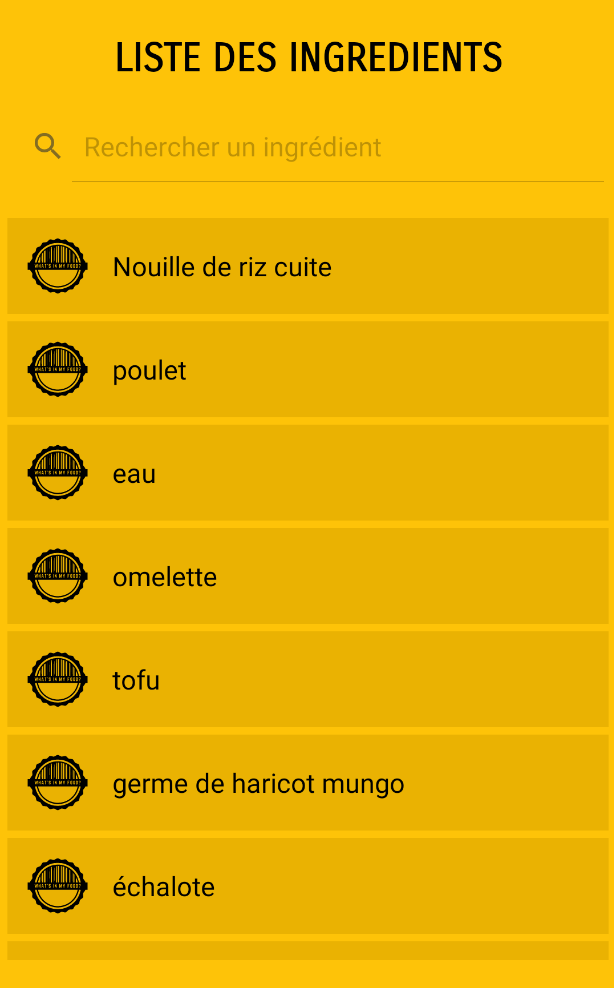
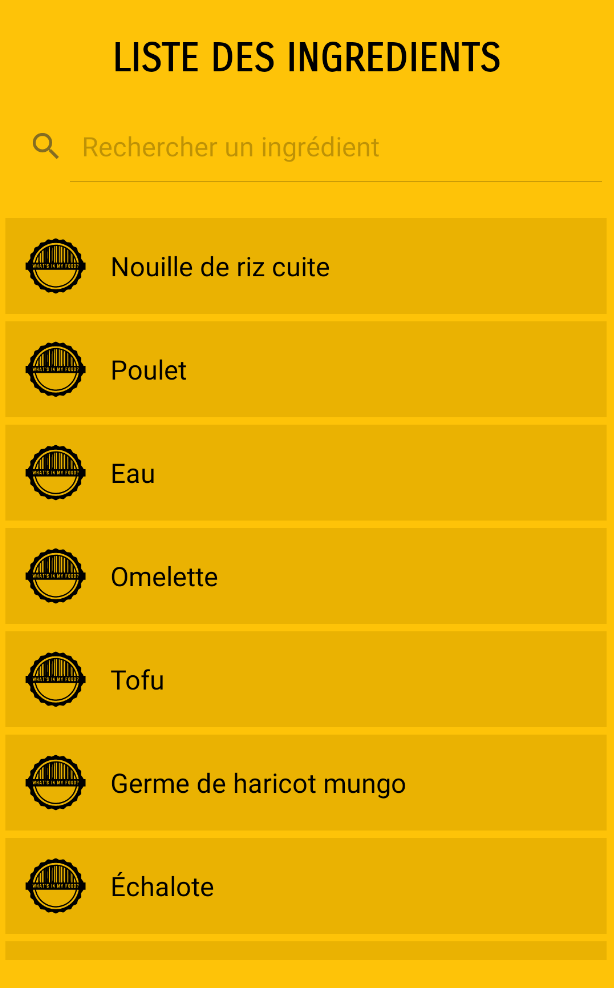
Modification image et d'affichage

diff --git a/app/src/main/java/com/example/app/presentation/view/ListAdapter.java b/app/src/main/java/com/example/app/presentation/view/ListAdapter.java
@@ -6,79 +6,54 @@ import android.view.ViewGroup;
 import android.widget.Filter;
 import android.widget.Filterable;
 import android.widget.TextView;
-
 import androidx.recyclerview.widget.RecyclerView;
-
 import com.example.app.R;
 import com.example.app.presentation.model.Ingredients;
-
 import java.util.ArrayList;
 import java.util.List;
 
 public class ListAdapter extends RecyclerView.Adapter<ListAdapter.ViewHolder> implements Filterable  {
-    private List<Ingredients> listing;
-    private List<Ingredients> listFull; //
-    private OnItemClickListener listener;
 
+    private List<Ingredients> listing;
+    private List<Ingredients> listFull;
+    private OnItemClickListener listener;
+    private String myIngredient;
 
     public interface OnItemClickListener {
         void onItemClick(Ingredients item);
     }
 
-    // Provide a reference to the views for each data item
-    // Complex data items may need more than one view per item, and
-    // you provide access to all the views for a data item in a view holder
     public class ViewHolder extends RecyclerView.ViewHolder {
-        // each data item is just a string in this case
         public TextView txtHeader;
-  //      public TextView txtFooter;
         public View layout;
 
         public ViewHolder(View v) {
             super(v);
             layout = v;
-            txtHeader = (TextView) v.findViewById(R.id.firstLine);
-     //       txtFooter = (TextView) v.findViewById(R.id.secondLine);
+            txtHeader = v.findViewById(R.id.firstLine);
         }
     }
 
-    public void add(int position, Ingredients item) {
-        listing.add(position, item);
-        notifyItemInserted(position);
-    }
-
-    public void remove(int position) {
-        listing.remove(position);
-        notifyItemRemoved(position);
-    }
-
-    // Provide a suitable constructor (depends on the kind of dataset)
     public ListAdapter(List<Ingredients> myDataset, OnItemClickListener listener) {
         this.listing = myDataset;
         this.listener = listener;
-        listFull = new ArrayList<>(myDataset); //
+        listFull = new ArrayList<>(myDataset);
     }
 
-    // Create new views (invoked by the layout manager)
     @Override
     public ListAdapter.ViewHolder onCreateViewHolder(ViewGroup parent, int viewType) {
-        // create a new view
         LayoutInflater inflater = LayoutInflater.from(parent.getContext());
         View v = inflater.inflate(R.layout.row_layout, parent, false);
-        // set the view's size, margins, paddings and layout parameters
         ViewHolder vh = new ViewHolder(v);
         return vh;
     }
 
-    // Replace the contents of a view (invoked by the layout manager)
     @Override
     public void onBindViewHolder(ViewHolder holder, final int position) {
-        // - get element from your dataset at this position
-        // - replace the contents of the view with that element
         final Ingredients currentIngredient = listing.get(position);
-        holder.txtHeader.setText(currentIngredient.getText());
-    //    holder.txtFooter.setText(currentIngredient.getText());
 
+        myIngredient = currentIngredient.getText().replaceAll("_", "");
+        holder.txtHeader.setText(myIngredient.substring(0,1).toUpperCase()  + myIngredient.substring(1).toLowerCase());
         holder.itemView.setOnClickListener(new View.OnClickListener() {
             @Override public void onClick(View v) {
                 listener.onItemClick(currentIngredient);
@@ -86,19 +61,17 @@ public class ListAdapter extends RecyclerView.Adapter<ListAdapter.ViewHolder> im
         });
     }
 
-    // Return the size of your dataset (invoked by the layout manager)
     @Override
     public int getItemCount() {
         return listing.size();
     }
 
-
     @Override
-    public Filter getFilter() { //
+    public Filter getFilter() {
         return ingredientFilter;
     }
 
-    private Filter ingredientFilter = new Filter() { //
+    private Filter ingredientFilter = new Filter() {
         @Override
         protected FilterResults performFiltering(CharSequence constraint) {
             List<Ingredients> filteredList = new ArrayList<>();
@@ -116,7 +89,6 @@ public class ListAdapter extends RecyclerView.Adapter<ListAdapter.ViewHolder> im
             }
             FilterResults results = new FilterResults();
             results.values = filteredList;
-
             return  results;
         }
 
@@ -127,7 +99,4 @@ public class ListAdapter extends RecyclerView.Adapter<ListAdapter.ViewHolder> im
             notifyDataSetChanged();
         }
     };
-
-
-
 }

diff --git a/app/src/main/java/com/example/app/presentation/view/DetailsActivity.java b/app/src/main/java/com/example/app/presentation/view/DetailsActivity.java
@@ -21,6 +21,7 @@ public class DetailsActivity extends AppCompatActivity {
     private Float PourcentageMin;
     private Integer PourcentageMaxInt;
     private Integer PourcentageMinInt;
+    private String myIngredient;
 
     @Override
     protected void onCreate(Bundle savedInstanceState) {
@@ -35,13 +36,13 @@ public class DetailsActivity extends AppCompatActivity {
         String ingredientJson = intent.getStringExtra(Constant.KEY_INGREDIENTS);
         Ingredients ingredients = Singletons.getGson().fromJson(ingredientJson, Ingredients.class);
 
-
         showName(ingredients);
         showDetails(ingredients);
     }
 
     private void showName(Ingredients ingredients){
-        noming.setText(ingredients.getText());
+        myIngredient = ingredients.getText().replaceAll("_","");
+        noming.setText(myIngredient.substring(0,1).toUpperCase() + myIngredient.substring(1).toLowerCase());
     }
 
     private void showDetails(Ingredients ingredients) {
@@ -51,14 +52,14 @@ public class DetailsActivity extends AppCompatActivity {
 
         if (PourcentageMax != null) {
             PourcentageMaxInt = Math.round(ingredients.getPercent_max());
-            txtDetail1.setText((PourcentageMaxInt)+ "%");
+            txtDetail1.setText((PourcentageMaxInt)+ " %");
         } else {
             txtDetail1.setText("Le pourcentage max de l'ingrédient\n" +ingredients.getText()+ "\nest inconnu");
         }
 
         if (PourcentageMin != null) {
             PourcentageMinInt = Math.round(ingredients.getPercent_min());
-            txtDetail2.setText((PourcentageMinInt)+"%");
+            txtDetail2.setText((PourcentageMinInt)+" %");
         } else {
             txtDetail2.setText("Le pourcentage min de l'ingrédient\n" +ingredients.getText()+ "\nest inconnu");
         }

diff --git a/app/src/main/java/com/example/app/presentation/controller/IngredientsListController.java b/app/src/main/java/com/example/app/presentation/controller/IngredientsListController.java
@@ -56,13 +56,13 @@ public class IngredientsListController {
                         List<Ingredients> ingredientsList = null;
                         saveList(ingredientsList);
                         getDataFromCache();
-                        erreur = "erreur produit";
+                        erreur = Constant.ERROR_PRODUCT;
                         view3.navigateToErreur();
                     }
                     else {
                         List<Ingredients> ingredientsList = response.body().getProduct().getIngredients();
                         saveList(ingredientsList);
-                        erreur = "erreur produit";
+                        erreur = Constant.ERROR_PRODUCT;
                         view3.showList(ingredientsList);
                     }
 
@@ -72,7 +72,7 @@ public class IngredientsListController {
             }
             @Override
             public void onFailure(Call<ResFoodResponse> call, Throwable t) {
-                erreur = "erreur api";
+                erreur = Constant.ERROR_API;
                 view3.navigateToErreur();
             }
         });
@@ -100,5 +100,4 @@ public class IngredientsListController {
     public void onItemClick(Ingredients ingredients) {
         view3.navigateToDetails(ingredients);
     }
-
 }

diff --git a/app/src/main/java/com/example/app/presentation/controller/InfoProduitController.java b/app/src/main/java/com/example/app/presentation/controller/InfoProduitController.java
@@ -42,7 +42,6 @@ public class InfoProduitController {
         this.sharedPreferences2 = sharedPreferences;
     }
 
-
     public void onStart(){
 
         product = getDataFromCacheProduit();
@@ -77,19 +76,18 @@ public class InfoProduitController {
                     List<Ingredients> ingredientsList = response.body().getProduct().getIngredients();
                     saveList(ingredientsList);
 
-
                     view2.showProduit();
                     view2.showImage();
 
                 } else{
                     jsonProduit = null;
-                    erreur = "erreur produit";
+                    erreur = Constant.ERROR_PRODUCT;
                     view2.navigateToErreur();
                 }
             }
             @Override
             public void onFailure(Call<ResFoodResponse> call, Throwable t) {
-                erreur = "erreur api";
+                erreur = Constant.ERROR_API;
                 view2.navigateToErreur();
 
             }
@@ -132,7 +130,6 @@ public class InfoProduitController {
             return productsave;
         }
     }
-
 
     public void onButtonClick(Button button){
         view2.navigateToIngredientsList();

diff --git a/app/src/main/java/com/example/app/presentation/view/IngredientsList.java b/app/src/main/java/com/example/app/presentation/view/IngredientsList.java
@@ -25,14 +25,10 @@ public class IngredientsList extends AppCompatActivity implements SearchView.OnQ
     private RecyclerView recyclerView;
     private ListAdapter mAdapter;
     private RecyclerView.LayoutManager layoutManager;
-
     public SearchView editsearch;
-
     private IngredientsListController controllerI;
     public String code;
     public String ancien_code;
-
-
 
     @Override
     protected void onCreate(Bundle savedInstanceState) {
@@ -51,7 +47,6 @@ public class IngredientsList extends AppCompatActivity implements SearchView.OnQ
         controllerI.onStart();
 
         createSearch();
-
     }
 
     private void createSearch(){
@@ -92,7 +87,6 @@ public class IngredientsList extends AppCompatActivity implements SearchView.OnQ
         IngredientsList.this.startActivity(myIntent);
     }
 
-
     @Override
     public boolean onQueryTextSubmit(String query) { //
         return false;
@@ -103,6 +97,5 @@ public class IngredientsList extends AppCompatActivity implements SearchView.OnQ
         mAdapter.getFilter().filter(newText);
         return false;
     }
-
 
 }

diff --git a/app/src/main/java/com/example/app/presentation/view/InfoProduit.java b/app/src/main/java/com/example/app/presentation/view/InfoProduit.java
@@ -43,9 +43,8 @@ public class InfoProduit extends AppCompatActivity {
         image_produit = findViewById(R.id.image_produit);
         buttonlist = findViewById(R.id.button);
 
-
         Intent intent2 = getIntent();
-        code = intent2.getStringExtra(Constant.KEY_CODE_PRODUIT); //if it's a string you stored.
+        code = intent2.getStringExtra(Constant.KEY_CODE_PRODUIT);
 
         controller2 = new InfoProduitController(this,
                 Singletons.getGson(),
@@ -125,6 +124,7 @@ public class InfoProduit extends AppCompatActivity {
         myIntent.putExtra(Constant.KEY_CODE2,controller2.ancien_code);
         InfoProduit.this.startActivity(myIntent);
     }
+
     public void navigateToErreur() {
         Intent myIntent = new Intent(InfoProduit.this, ErreurActivity.class);
         myIntent.putExtra(Constant.ERROR_NAME, controller2.erreur);

diff --git a/app/src/main/java/com/example/app/presentation/view/MainActivity.java b/app/src/main/java/com/example/app/presentation/view/MainActivity.java
@@ -17,11 +17,9 @@ import com.example.app.presentation.controller.MainController;
 public class MainActivity extends AppCompatActivity {
 
     private MainController controller;
-
     public EditText coderentre;
     public Button recherche;
     public String coderentre_string;
-
 
     @Override
     protected void onCreate(Bundle savedInstanceState) {
@@ -42,9 +40,7 @@ public class MainActivity extends AppCompatActivity {
                 controller.onButtonClick(recherche);
             }
         });
-
     }
-
 
     public void navigateToInfoProduit(){
         controller.recupererCode();

diff --git a/app/src/main/java/com/example/app/presentation/view/ErreurActivity.java b/app/src/main/java/com/example/app/presentation/view/ErreurActivity.java
@@ -13,7 +13,6 @@ import com.example.app.R;
 import com.example.app.presentation.controller.ErreurController;
 
 
-
 public class ErreurActivity extends AppCompatActivity {
 
     public Button retour_menu;
@@ -53,7 +52,7 @@ public class ErreurActivity extends AppCompatActivity {
     }
 
     public void typeErreur(){
-        if (erreur.equals("erreur api")){
+        if (erreur.equals(Constant.ERROR_API)){
             textViewErreur.setText(R.string.AlertApi);
         }else{
             textViewErreur.setText(R.string.AlertCode);

diff --git a/app/src/main/java/com/example/app/presentation/model/ResFoodResponse.java b/app/src/main/java/com/example/app/presentation/model/ResFoodResponse.java
@@ -3,20 +3,13 @@ package com.example.app.presentation.model;
 public class ResFoodResponse {
 
     private String code;
+    private Product product;
 
     public String getCode() {
         return code;
     }
-    public void setCode(String code) {
-        this.code = code;
-    }
-
-    private Product product;
 
     public Product getProduct() {
         return product;
     }
-
-
-
 }

diff --git a/app/src/main/java/com/example/app/Constant.java b/app/src/main/java/com/example/app/Constant.java
@@ -19,5 +19,10 @@ public class Constant {
 
     public static String ERROR_NAME = "erreur name";
 
+    public static String ERROR_PRODUCT = "erreur produit";
+
+    public static String ERROR_API = "erreur api";
+
+
 
 }

diff --git a/app/src/main/java/com/example/app/presentation/model/Ingredients.java b/app/src/main/java/com/example/app/presentation/model/Ingredients.java
@@ -7,7 +7,6 @@ public class Ingredients {
     private Float percent_max;
     private Float percent_min;
 
-
     public String getText() {
         return text;
     }

diff --git a/app/src/main/java/com/example/app/presentation/model/Product.java b/app/src/main/java/com/example/app/presentation/model/Product.java
@@ -43,8 +43,4 @@ public class Product {
     public List<Ingredients> getIngredients() {
         return ingredients;
     }
-
-
-
-
 }
